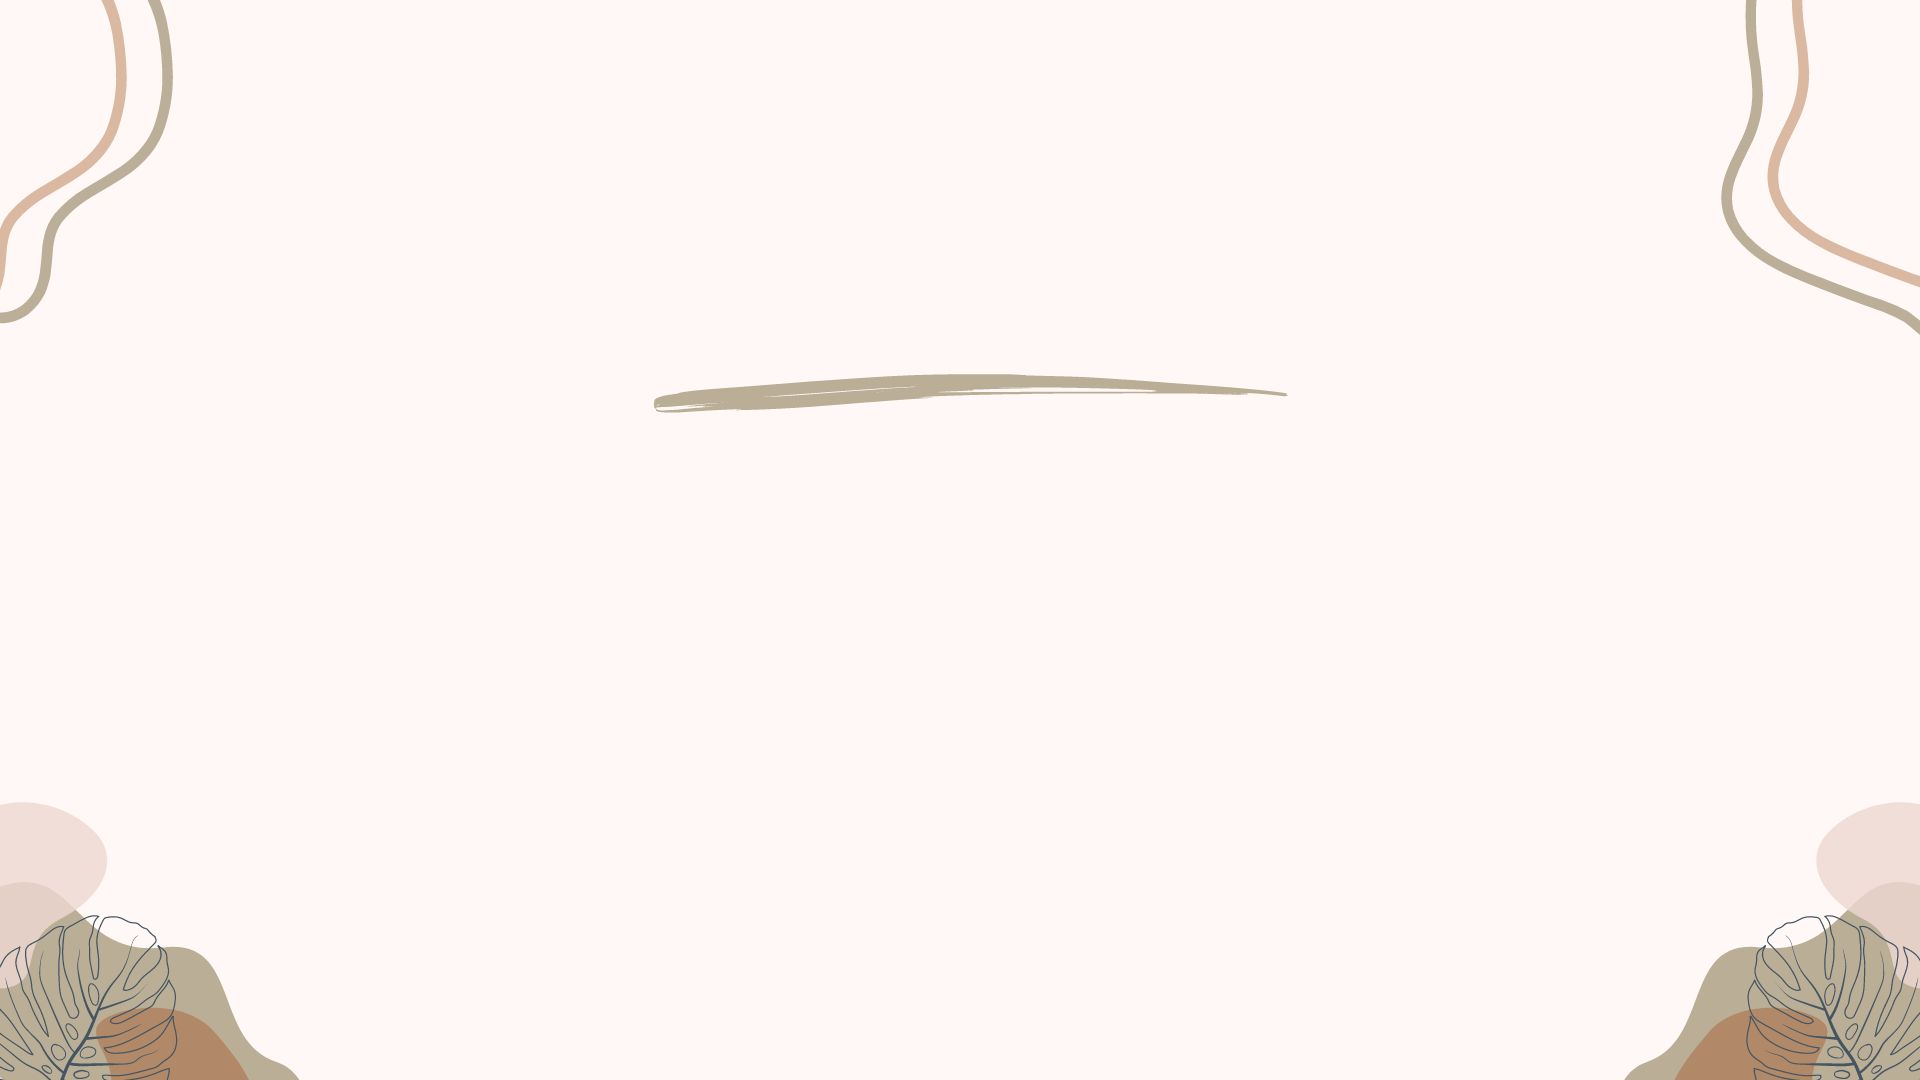
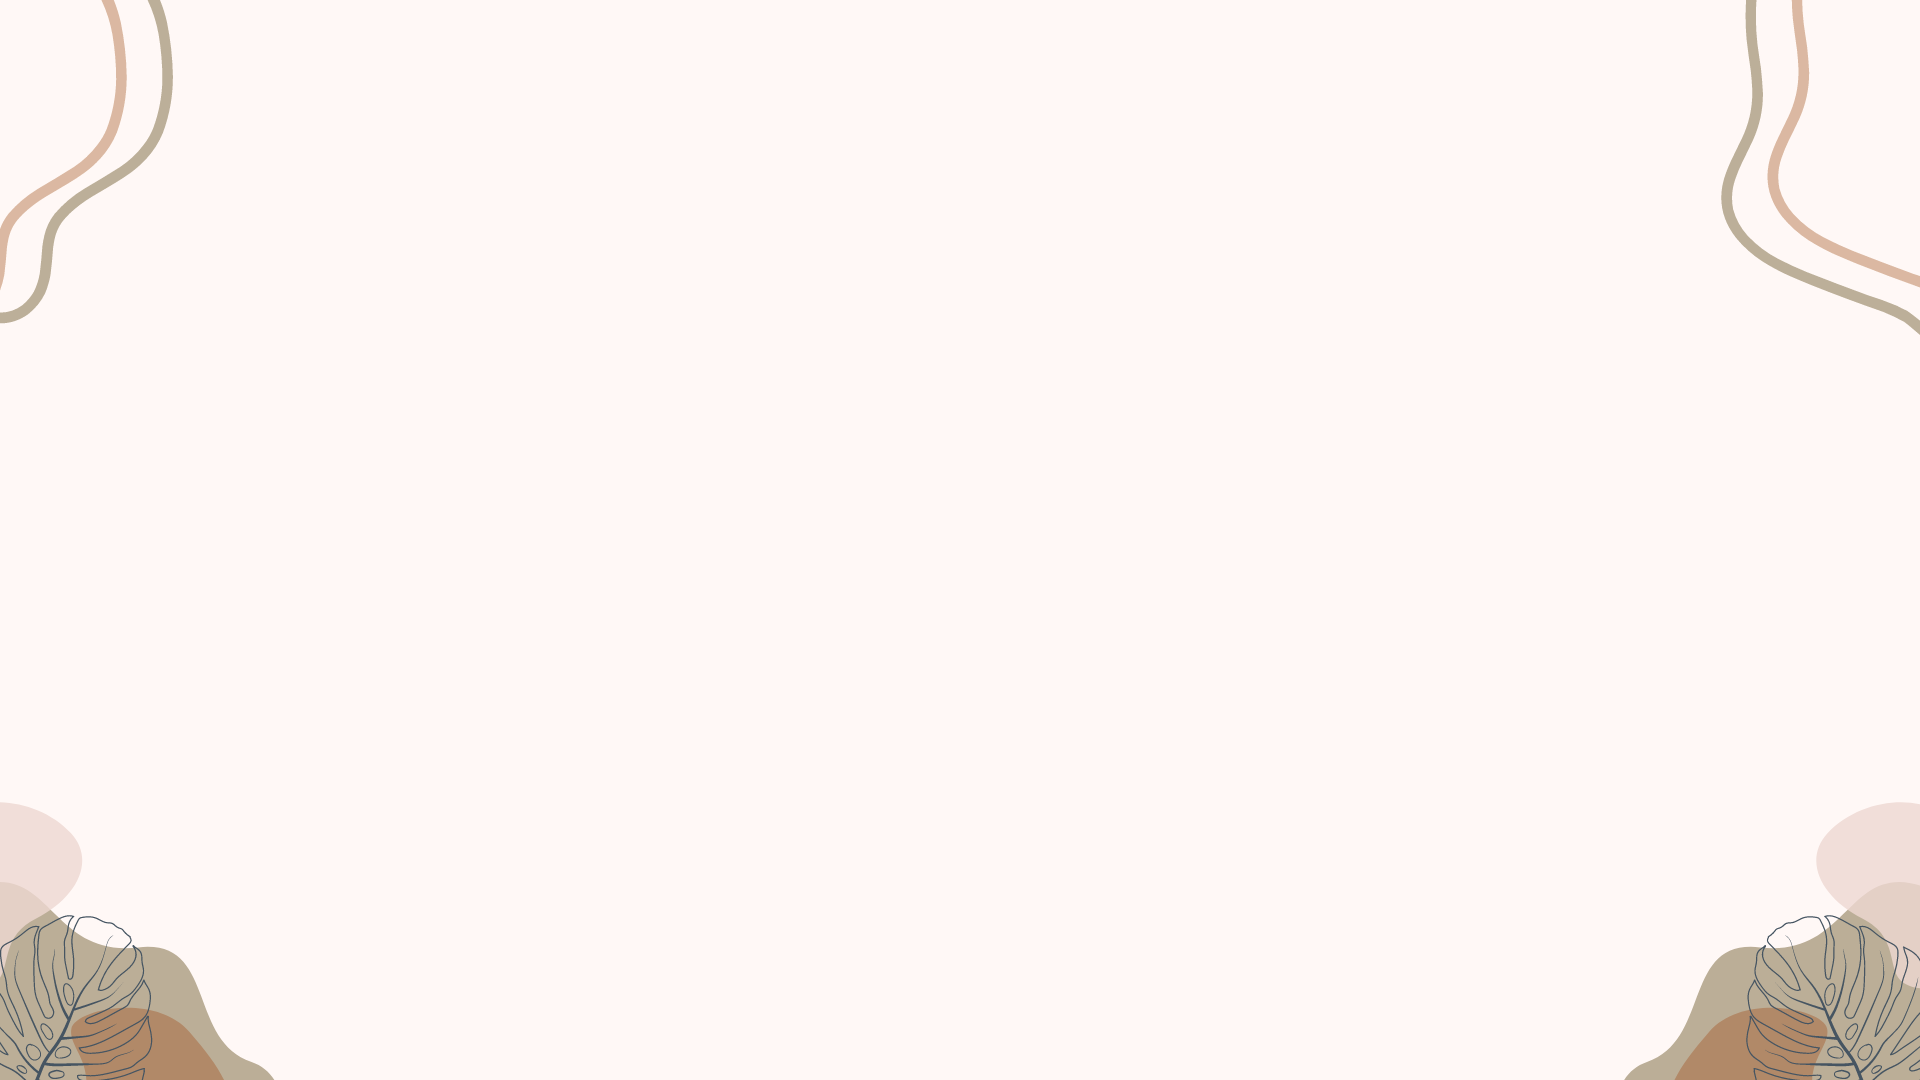
finalised styling and responsiveness on pages

Changed region(s): [[0.0, 0.7333, 0.1562, 1.0], [0.3438, 0.3361, 0.6562, 0.3972]]

diff --git a/src/app/projects/page.js b/src/app/projects/page.js
@@ -1,15 +1,17 @@
 import tipper from '@/app/projects/tipper.png'
 import ncnews from '@/app/projects/ncnews.png'
 import github from '@/app/contact/icons/github.png'
-import background from '../../../public/background.png'
+import indigo from '@/app/projects/indigo.png'
+import underline from '../../../public/underline.png'
 
 const Projects = () => {
     return (
         <main className="projects">
-        <h1>Projects</h1>
+        <h1>Projects<img className="underline" src={underline.src}/></h1>
+
         <div className="projects-container">
-            <article><h3>Tipper</h3><img src={tipper.src}/>
-            <p>A cashless tipping mobile web-app</p>
+            <article><h3>Tipper</h3><a href='https://tipper.merin-yilmaz.co.uk/' target='_blank'><img src={tipper.src}/></a>
+            <p>Cashless tipping mobile web-app</p>
             <div className='tech-list'>
                 <div>Node.js</div>
                 <div>JavaScript</div>
@@ -24,10 +26,10 @@ const Projects = () => {
                 <div>Scss</div>
                 <div>Vercel</div>
             </div>
-            <a href='https://github.com/Tipper-final-project'><img className='github-project' src={github.src}/></a>
+            <a href='https://github.com/Tipper-final-project' target='_blank'><img className='github-project' src={github.src}/></a>
             </article>
-            <article><h3>NC News</h3><a href='https://myncnew.netlify.app/'><img src={ncnews.src}/></a>
-            <p>A social news forum site with articles served up from an API I created</p>
+            <article><h3>NC News</h3><a href='https://myncnew.netlify.app/' target='_blank'><img src={ncnews.src}/></a>
+            <p>Social news forum site with articles served up from an API I created</p>
             <div className='tech-list'>
                 <div>Node.js</div>
                 <div>JavaScript</div>
@@ -47,8 +49,14 @@ const Projects = () => {
                 <div>Bootstrap</div>
                 <div>Netlify</div>
             </div>
-            <a href='https://github.com/Merin-Yilmaz/NC-News-FE'><img className='github-project' src={github.src}/></a>
+            <a href='https://github.com/Merin-Yilmaz/NC-News-FE' target='_blank'><img className='github-project' src={github.src}/></a>
             </article>
+            <article><h3>Indigo Energy</h3><a href='https://dev.indigo-energy.co.uk/' target='_blank'><img className='indigo' src={indigo.src}/></a>
+            <p>Solar Power installation company site</p>
+            <div className='tech-list'>
+                <div>Wordpress</div>
+                <div>CSS</div>
+            </div>            </article>
         </div>
         </main>
     )

diff --git a/src/app/skills/page.js b/src/app/skills/page.js
@@ -1,4 +1,5 @@
 import Image from "next/image";
+import underline from '../../../public/underline.png'
 
 const icons = require.context('../skills/icons', true)
 const iconList = icons.keys().map(icon => icons(icon));
@@ -6,7 +7,7 @@ const iconList = icons.keys().map(icon => icons(icon));
 const Skills = () => {
     return (
         <main className="skills">
-        <h1>Skills</h1>
+        <h1>Skills<img className="underline" src={underline.src}/></h1>
         <div className="skills-container">
             <ul>
             <li>Laboris est cillum quis deserunt consectetur.</li>   

diff --git a/src/app/contents/page.js b/src/app/contents/page.js
@@ -1,10 +1,11 @@
 "use client"
 import Link from 'next/link';
+import underline from '../../../public/underline.png'
 
 const Contents = () => {
     return (
         <main className="contents">
-            <h1>Table of Contents</h1>
+            <h1>Table of Contents<img className='underline' src={underline.src}/></h1>
             <div className='contents-container'>
             <div className='about-me'>
                 <Link href="/about-me" style={{ textDecoration: 'none' }}>

diff --git a/src/app/contact/page.js b/src/app/contact/page.js
@@ -10,7 +10,7 @@ const Contact = () => {
             backgroundImage: `url(${background.src})`,
             backgroundSize: "cover",
             height: "100vh",
-            width: "100vw",
+            width: "100vw"
           }}>
             <h1>Contact</h1>
             <div className='contact-container'>              

diff --git a/src/app/layout.js b/src/app/layout.js
@@ -15,6 +15,7 @@ export default function RootLayout({ children }) {
           padding:0,
           margin: 0,
           backgroundPositionY: "-100px",
+          backgroundAttachment: 'fixed'
         }}>{children}</body>
     </html>
   );
